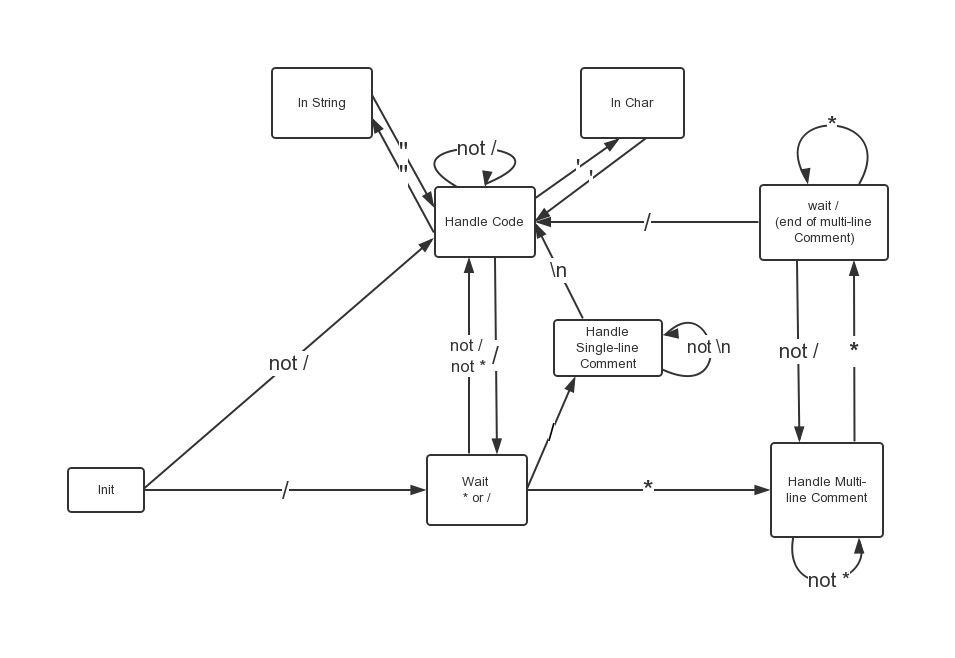
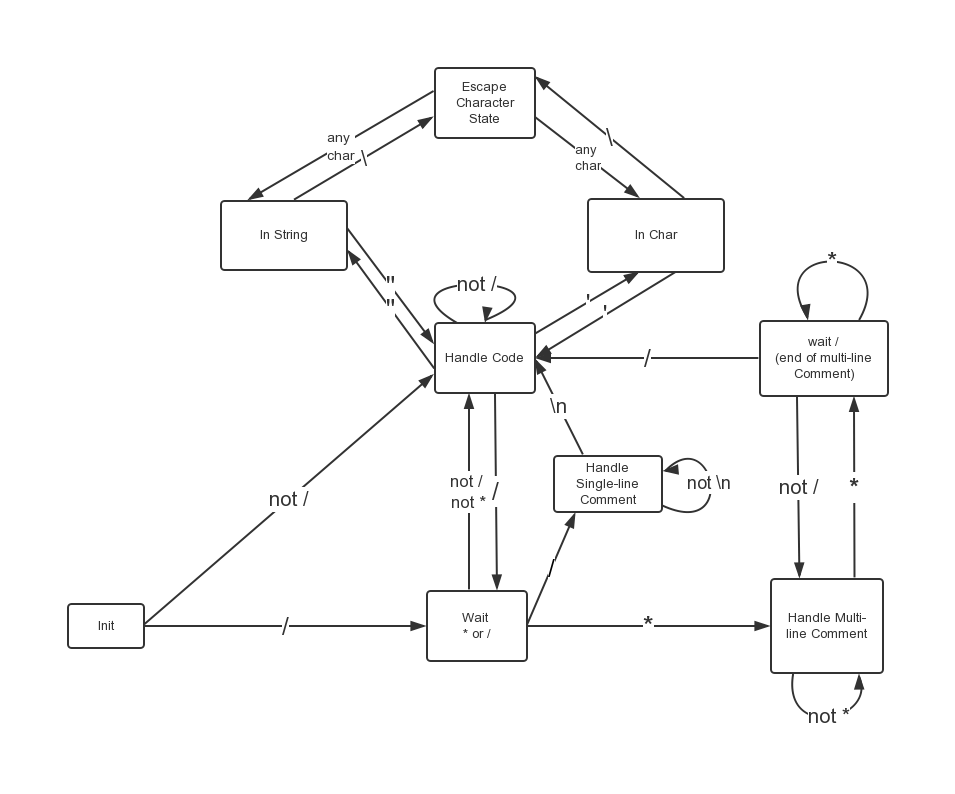
implements escapeCharState

diff --git a/src/main/java/state/State.java b/src/main/java/state/State.java
@@ -39,6 +39,10 @@ public enum State implements IState{
             if(c == '\'') {
                 sc.setState(State.CodeHandleState);
                 System.out.print(c);
+            } else if(c == '\\') {
+                sc.setPrevState(State.CharHandleState);
+                sc.setState(State.EscapeCharacterHandleState);
+                System.out.print(c);
             } else {
                 System.out.print(c);
             }
@@ -51,9 +55,21 @@ public enum State implements IState{
             if(c == '"') {
                 sc.setState(State.CodeHandleState);
                 System.out.print(c);
+            } else if(c == '\\') {
+                sc.setPrevState(State.StringHandleState);
+                sc.setState(State.EscapeCharacterHandleState);
+                System.out.print(c);
             } else {
                 System.out.print(c);
             }
+        }
+    },
+
+    EscapeCharacterHandleState() {
+        @Override
+        public void changeState(char c, StateContext sc) {
+            System.out.print(c);
+            sc.setState(sc.getPrevState());
         }
     },
 
@@ -110,5 +126,14 @@ public enum State implements IState{
                 sc.setState(State.CommentHandleState);
             }
         }
+    };
+
+    State prevState;
+    State () {
     }
+
+    State(State prevState) {
+        this.prevState = prevState;
+    }
+
 }

diff --git a/src/main/java/state/StateContext.java b/src/main/java/state/StateContext.java
@@ -8,8 +8,14 @@ import state.State;
 public class StateContext {
     private State state = State.InitState;
 
-    public State getState() {
-        return state;
+    private State prevState = State.InitState;
+
+    public State getPrevState() {
+        return prevState;
+    }
+
+    public void setPrevState(State prevState) {
+        this.prevState = prevState;
     }
 
     public void setState(State state) {

diff --git a/README.md b/README.md
@@ -13,17 +13,10 @@ Done:
 
 * remove multi-line comments like  /* xxx */
 * remove single-line comments like // xxx
-* symbol such as /\* xxx\*/ or // in String would not be affected by the tool.
-* state change will not affected by special char which could trigger state change, such as '/' '*' '"'
+* symbol which could trigger the state shift will not has any effect in char and String. Such as String s = "abc/*\*part of Str\*/def"
+* escape character in char or String will not affect the judgement of comments.
 <br></br>
 * 去除/* xxx */ 形式的多行注释
 * 去除以//开头的单行注释 
-* 字符串中的/\* xxx\*/ 不会受到影响
-* 状态转移不受char中的相关触发字符影响，比如'/' '*' '"'
-
-TODO:
-
-
-* implements the case of char handling such as '/' '*' '"'
-<br></br>
-* 加入处理转义字符的情况
+* char, String中可触发状态转换的特殊字符/\* xxx\*/ 不会影响状态转移 如 String s = "abc/*\*part of Str\*/def"
+* char, String中的转义字符与被转义字符不会影响注释的判断与去除 如 \' \" \\
